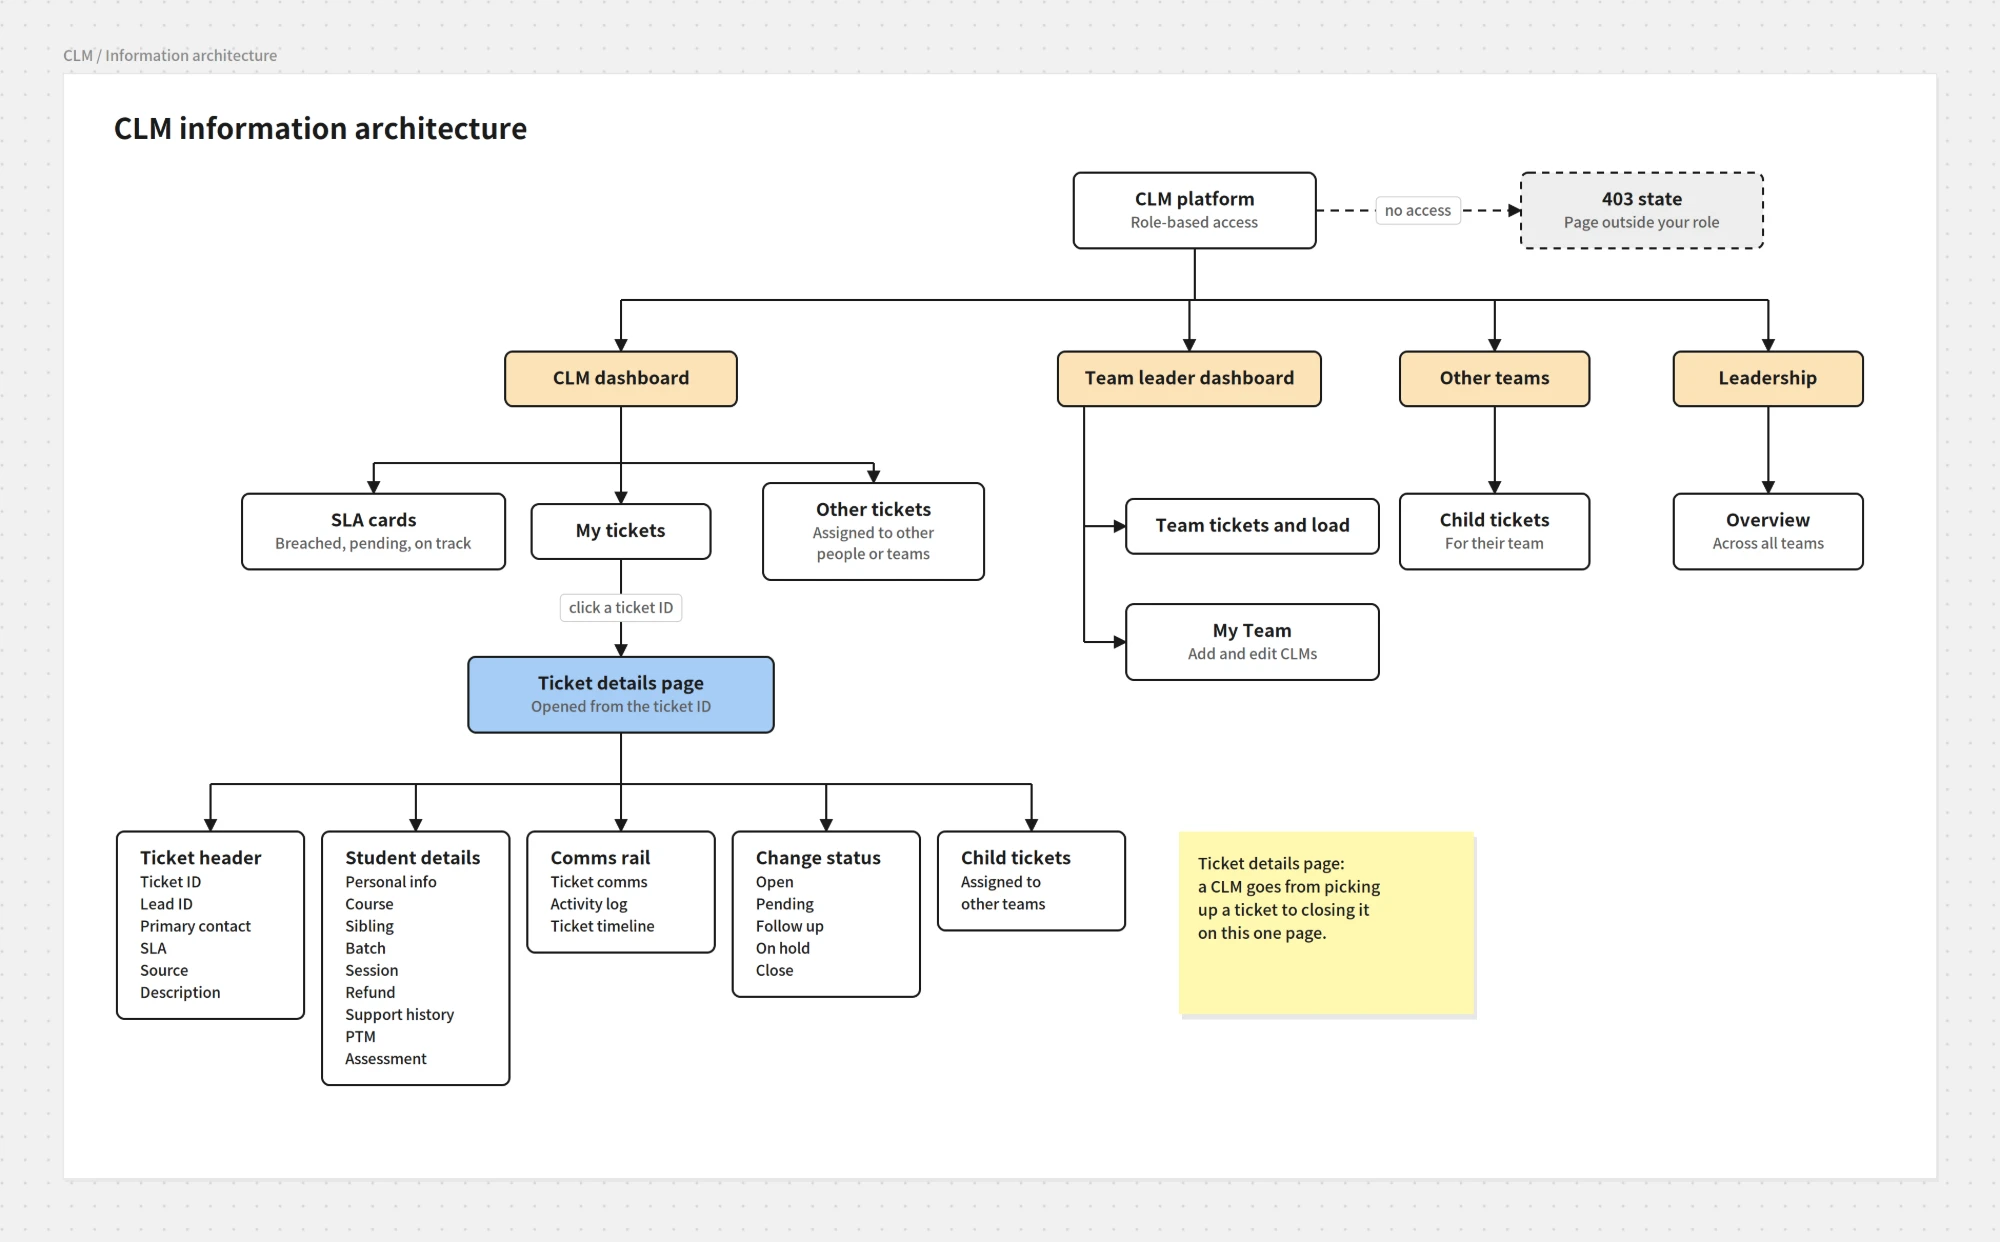
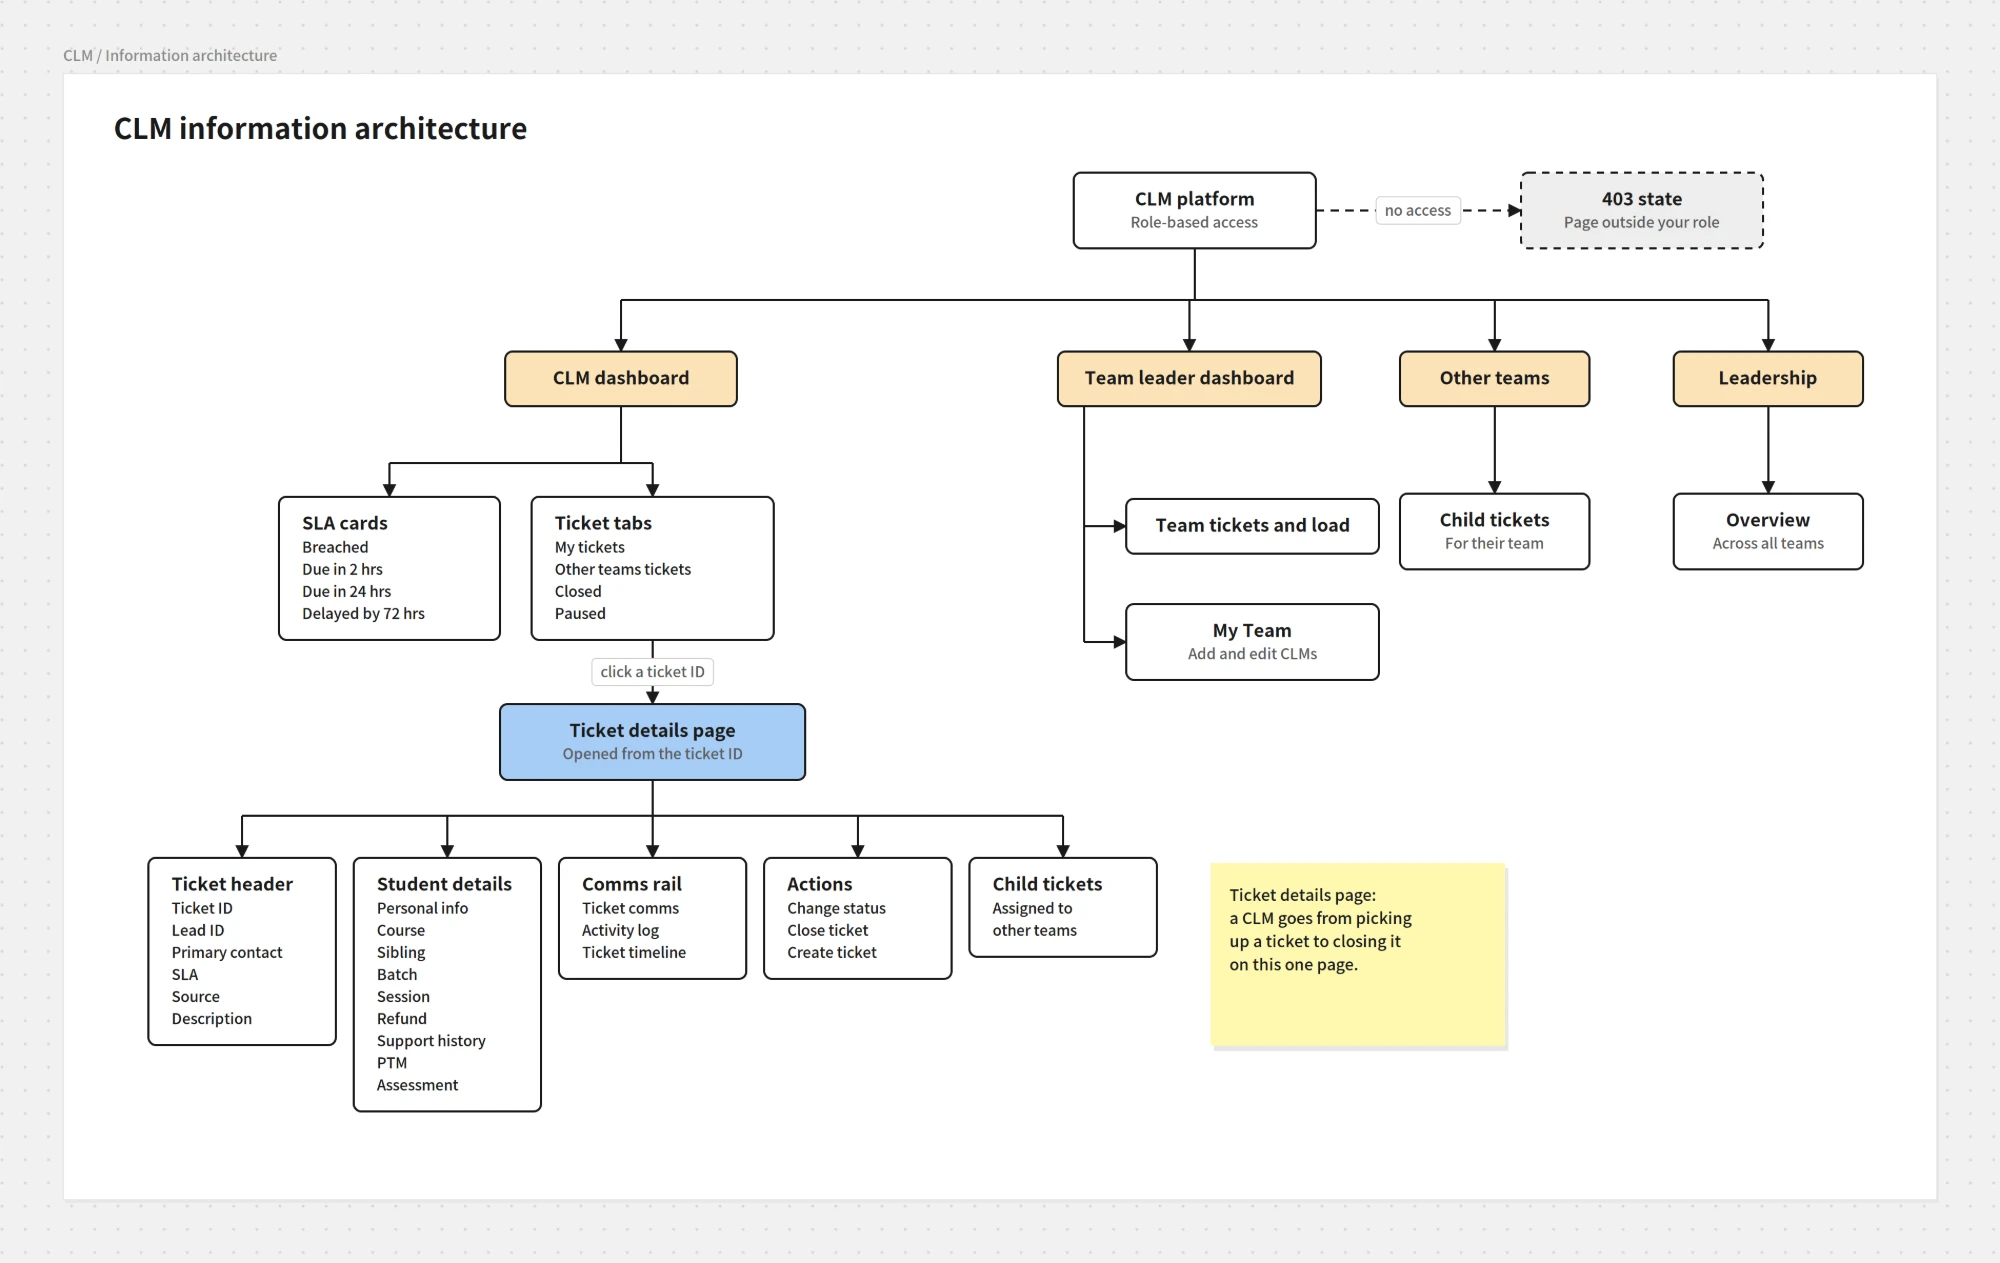
CLM: add screens 05-07 and the replaced IA / navigation diagrams
- Replace clm-diagrams 04-information-architecture and
  05-navigation-explored-vs-chosen with the updated versions (new SLA labels,
  ticket tabs, Actions; chosen dashboard = ticket tabs and SLA cards).
- Place screens 05-activity-log and 06-ticket-timeline (the status-flows pair)
  and 07-allocate-batch-annotated (display webp + full-res original for the
  lightbox). Screens 08-batch-details and 09-create-session remain pending.

Claude-Session: https://claude.ai/code/session_01WYKgvXK1wQFL6PcCW6JFSc

diff --git a/components/case/ClmCaseStudy.tsx b/components/case/ClmCaseStudy.tsx
@@ -509,8 +509,8 @@ const SECTIONS: Section[] = [
       {
         t: "figpair",
         items: [
-          { pendingName: "clm-screens/05-activity-log.png", alt: "Activity log showing a status change from Pending to Open", caption: "Activity log" },
-          { pendingName: "clm-screens/06-ticket-timeline.png", alt: "Ticket timeline showing a root ticket card", caption: "Ticket timeline" },
+          { src: "/clm-screens/05-activity-log.webp", full: "/clm-screens/05-activity-log-full.png", alt: "Activity log showing a status change from Pending to Open", caption: "Activity log" },
+          { src: "/clm-screens/06-ticket-timeline.webp", full: "/clm-screens/06-ticket-timeline-full.png", alt: "Ticket timeline showing a root ticket card", caption: "Ticket timeline" },
         ],
       },
       { t: "h3", text: "Batches and sessions inside the ticket" },
@@ -520,7 +520,8 @@ const SECTIONS: Section[] = [
       },
       {
         t: "figure",
-        pendingName: "clm-screens/07-allocate-batch-annotated.png",
+        src: "/clm-screens/07-allocate-batch-annotated.webp",
+        full: "/clm-screens/07-allocate-batch-annotated-full.webp",
         alt: "Annotated Allocate Batch view with batches grouped by time slot, strength and capacity, and batch history",
         caption: "Allocating a batch from the ticket, annotated",
       },
